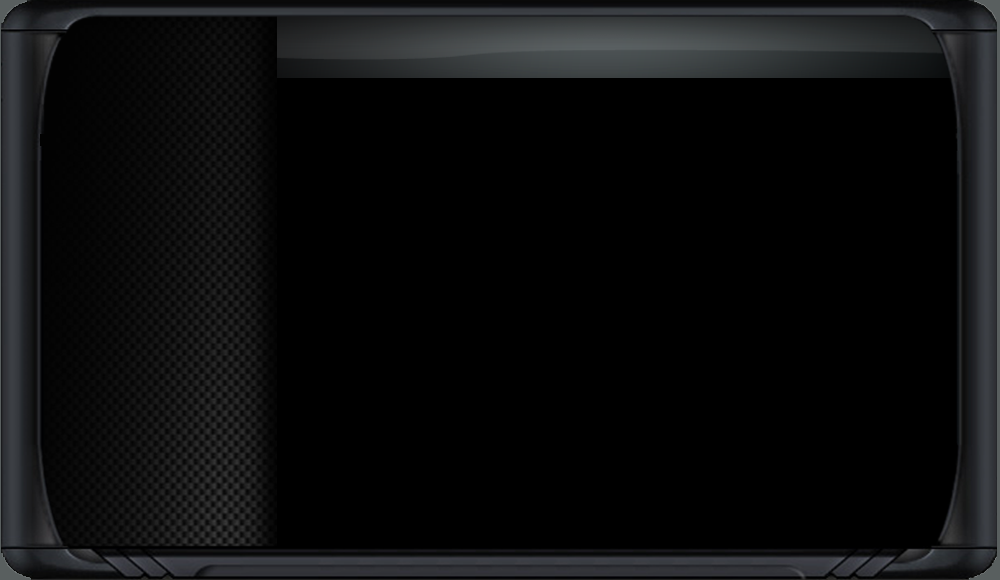
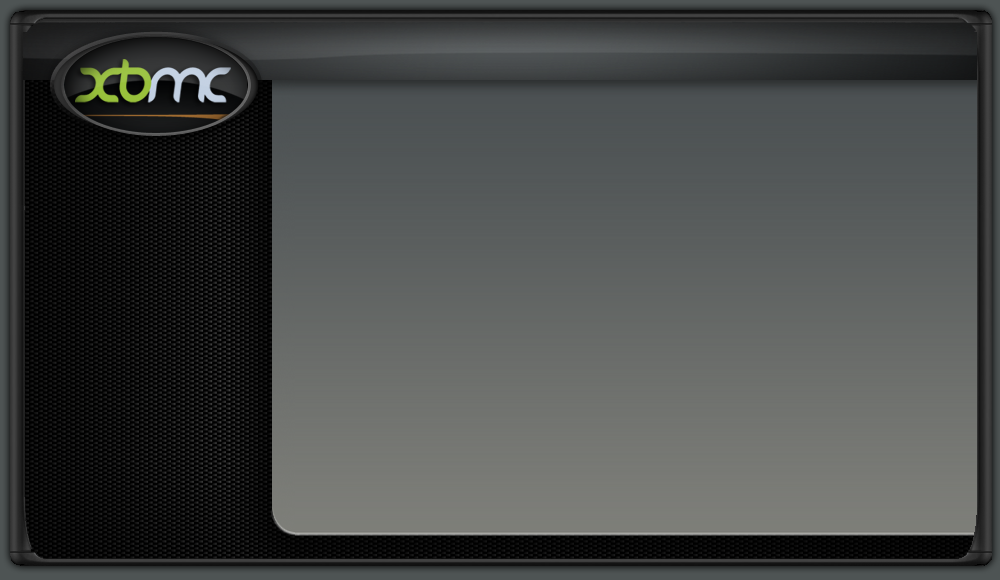
updated: new graphics for Project Mayhem III web interface from xbmc mainline and css updates

diff --git a/web/Project_Mayhem_III/styles/Project_Mayhem/screen.css b/web/Project_Mayhem_III/styles/Project_Mayhem/screen.css
@@ -12,6 +12,11 @@ body
     border : 0;
 }	
 
+a
+{
+    outline: none;
+}
+
 #SiteContainer
 { 
     margin : auto;
@@ -55,22 +60,7 @@ div.SiteBackgroundConfiguration
         float : left;
     
     }
-    
-    
-        #SiteContainer #SiteLeftContainer #SiteInfoContainer div
-        { 
-            position : absolute;
-            
-            width : 183px;
-            height : 98px;
-            
-            top : 38px;
-            left : 64px;
-            
-            background-image : url('images/InfoLogo.png');
-
-        }
-    
+        
     
     
         #SiteContainer #SiteLeftContainer #SiteMenuContainer
@@ -78,8 +68,8 @@ div.SiteBackgroundConfiguration
             position : absolute;
             width : 200px;
             height : 330px;
-            top : 140px;
-            left : 70px;
+            top : 150px;
+            left : 40px;
 
             /* Fix for buggy IE */
             font-size : 1px;        
@@ -95,9 +85,9 @@ div.SiteBackgroundConfiguration
                 #SiteContainer #SiteLeftContainer #SiteMenuContainer ul li a
                 {
                     display: block;
-                    margin : 0px 0px 13px 0px;
-                    width: 169px;
-                    height : 32px;
+                    margin : 0px 0px 2px 0px;
+                    width: 220px;
+                    height : 34px;
                 }
     
                     #SiteContainer #SiteLeftContainer #SiteMenuContainer ul li a span
@@ -484,6 +474,7 @@ div.SiteBackgroundConfiguration
                     height : 25px;
                     left : 16px;
                     top : 0px;
+                    background: none;
                 }   
                 #SiteContainer #SiteLeftContainer #SiteVolumeContainer ul li.vol10 a:hover
 		{                   
@@ -623,10 +614,10 @@ div.SiteBackgroundConfiguration
         {
             
             position : absolute;
-            width : 310px;
-            height : 47px;
-            left : 55px;
-            top : 2px;
+            width : 200px;
+            height : 40px;
+            left : 0px;
+            top : 4px;
         }
         
         
@@ -646,23 +637,23 @@ div.SiteBackgroundConfiguration
         {
             position : absolute;
             width : 685px;
-            height : 420px;
+            height : 430px;
             left : 8px;
-            top : 56px;
+            top : 60px;
             
             float : left;
             
             color : #FFFFFF;
             
             overflow : auto;
-            scrollbar-base-color : #091C20;
+            scrollbar-base-color : #c7c7c7;
             scrollbar-3dlight-color : #000000;
-            scrollbar-arrow-color : #FFFFFF;
+            scrollbar-arrow-color : #FF00000;
             scrollbar-darkshadow-color : #000000;
-            scrollbar-face-color : #324A51;
-            scrollbar-highlight-color : #324A51;
-            scrollbar-shadow-color : #324A51;
-            scrollbar-track-color : #000000;  
+            scrollbar-face-color : #bdbdbd;
+            scrollbar-highlight-color : #bdbdbd;
+            scrollbar-shadow-color : #bdbdbd;
+            scrollbar-track-color : #8b8b8b;  
 
 
         }
@@ -764,18 +755,13 @@ div.SiteBackgroundConfiguration
                     }
 
 
-                    #SiteContainer #SiteRightContainer #SiteContentContainer #ItemList li div.FileName
+                    #SiteContainer #SiteRightContainer #SiteContentContainer #ItemList li div.FileName a
                     {
-                        float : left ;
+                        font-family : Trebuchet MS, Verdana, Arial, Helvetica;
+                        font-size : 16px;
+                        color : #ffffff;
+                        text-decoration : none;
                     }
-
-                        #SiteContainer #SiteRightContainer #SiteContentContainer #ItemList li div.FileName a
-                        {
-                            font-family : Trebuchet MS, Verdana, Arial, Helvetica;
-                            font-size : 16px;
-                            color : #ffffff;
-                            text-decoration : none;
-                        }
 
 
                     #SiteContainer #SiteRightContainer #SiteContentContainer #ItemList li div.AddQueue
